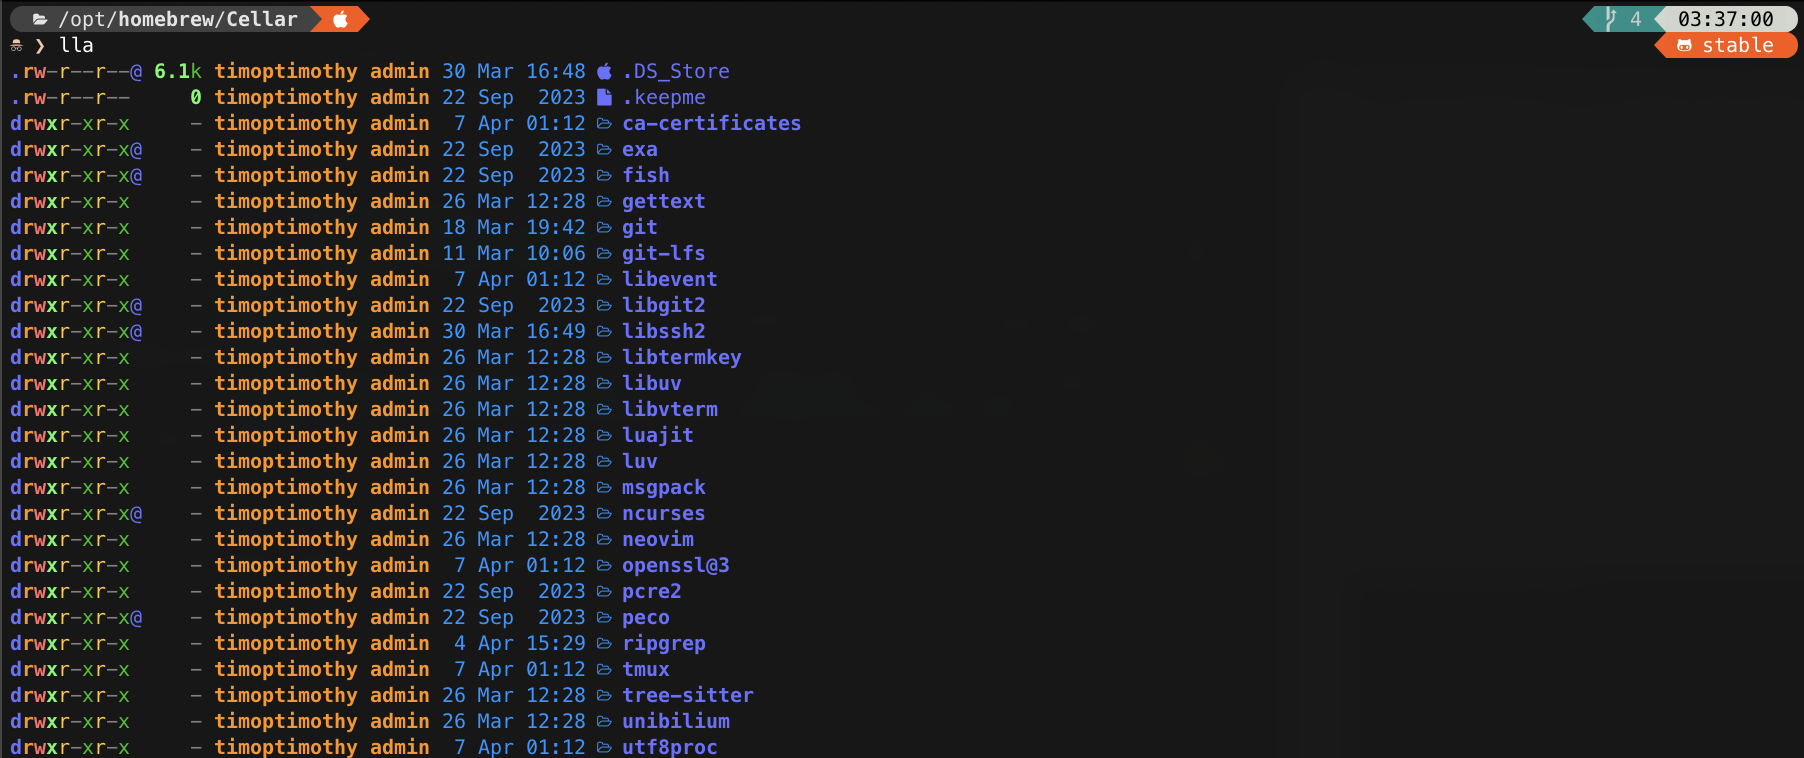
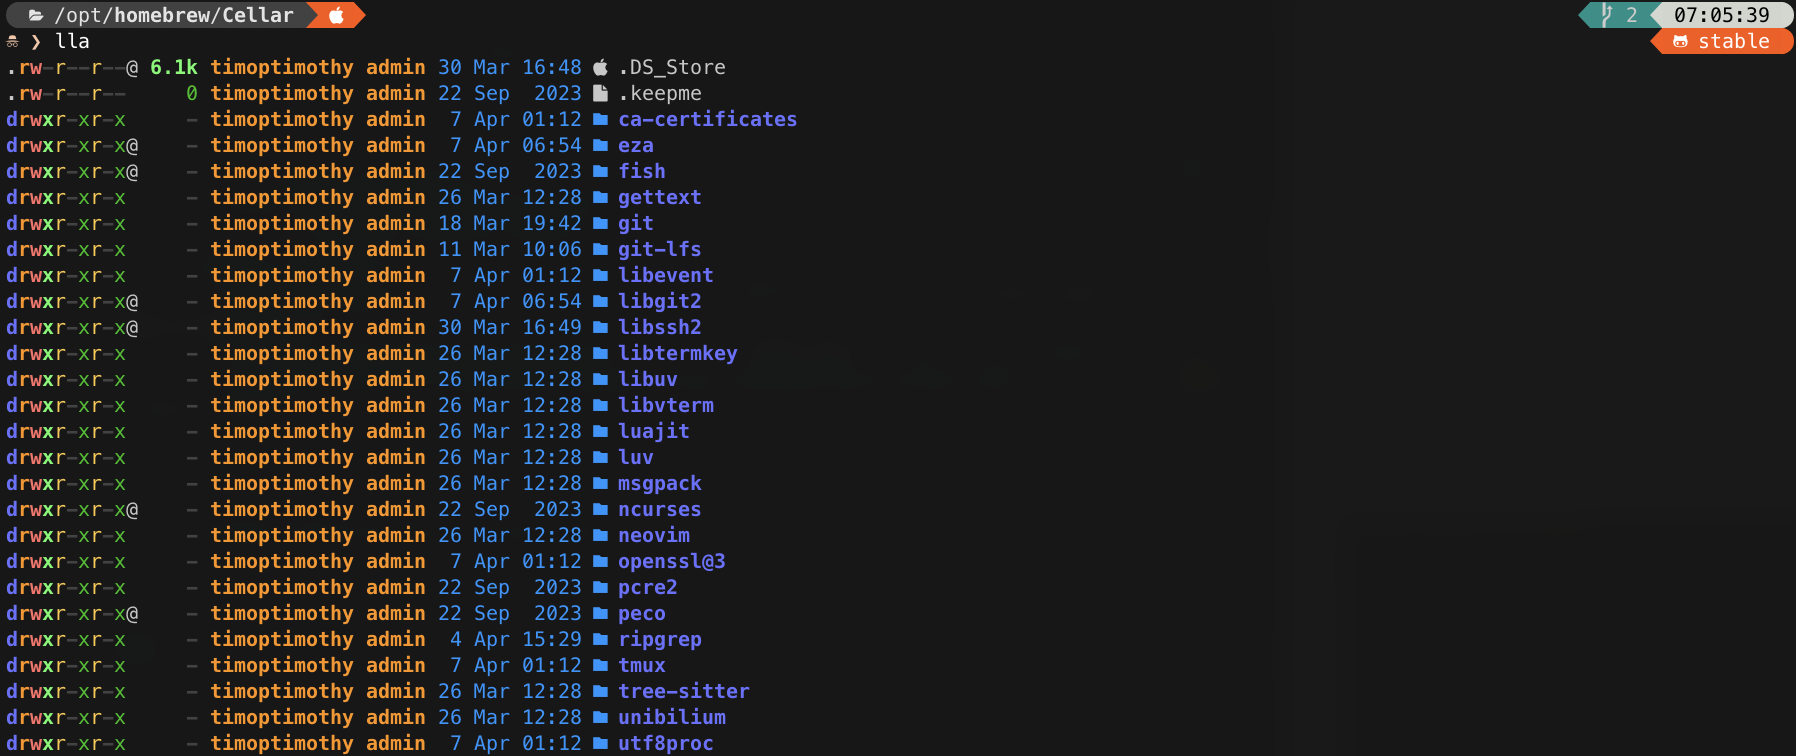
feat update exa to eza and change instructions in readme

Changed region(s): [[0.0, 0.0, 0.4677, 1.0], [0.8731, 0.0, 1.0, 0.0913]]

diff --git a/README.md b/README.md
@@ -30,23 +30,22 @@ Dotfiles is for storing dotfiles to kickstart.
 - [Fisher](https://github.com/jorgebucaran/fisher) - Plugin manager
 - [Tide](https://github.com/IlanCosman/tide) - Shell theme. Use version 5: `fisher install ilancosman/tide@v5`
 - Nerd fonts - Powerline-patched fonts. It can be directly downloaded from the [files](#font-installation) below without using `homebrew`, so **Don't** do `brew install font-hack-nerd-font`. It will consume more storages by installing from `homebrew`.
-- [Exa](https://github.com/ogham/exa) - `ls` replacement
+- [Eza](https://github.com/eza-community/eza) - `ls` replacement
 - [Peco](https://github.com/peco/peco) - Interactive filtering
-- [Zoxide](https://github.com/ajeetdsouza/zoxide) - Directory jumping
+- [Zoxide](https://github.com/ajeetdsouza/zoxide) - Directory jumping, `cd` replacement with extensive features
 
-#### Commands for installing `exa` and `peco`
+#### Commands for installing `eza` and `peco`
 
 ```bash
-brew install exa
+brew install eza
 brew install peco
 ```
 
 ##### Optional installation for `fish shell`
 
 - [ghq](https://github.com/x-motemen/ghq) - Local Git repository organizer
-- [fzf](https://github.com/PatrickF1/fzf.fish) - Interactive filtering, `peco` replacement
-- [Eza](https://github.com/eza-community/eza) - `ls` replacement, `exa` replacement
-- [z for fish](https://github.com/jethrokuan/z) - Directory jumping
+- [fzf](https://github.com/PatrickF1/fzf.fish) - Interactive filtering, fuzzy finder in fish shell
+- [z for fish](https://github.com/jethrokuan/z) - Directory jumping, `cd` replacement  with extensive features
 
 ### Font Installation
 
@@ -73,7 +72,7 @@ brew install peco
 
 ### Images for fish shell
 
-![exa(lla) screenshot](images/lla.png)
+![eza(lla) screenshot](images/lla.png)
 ![peco(control + R) screenshot](images/peco.png)
 
 ## dotfiles (current)
@@ -110,7 +109,7 @@ brew install peco
 
 `git`
 
-`exa`
+`eza`
 
 `fish`
 
